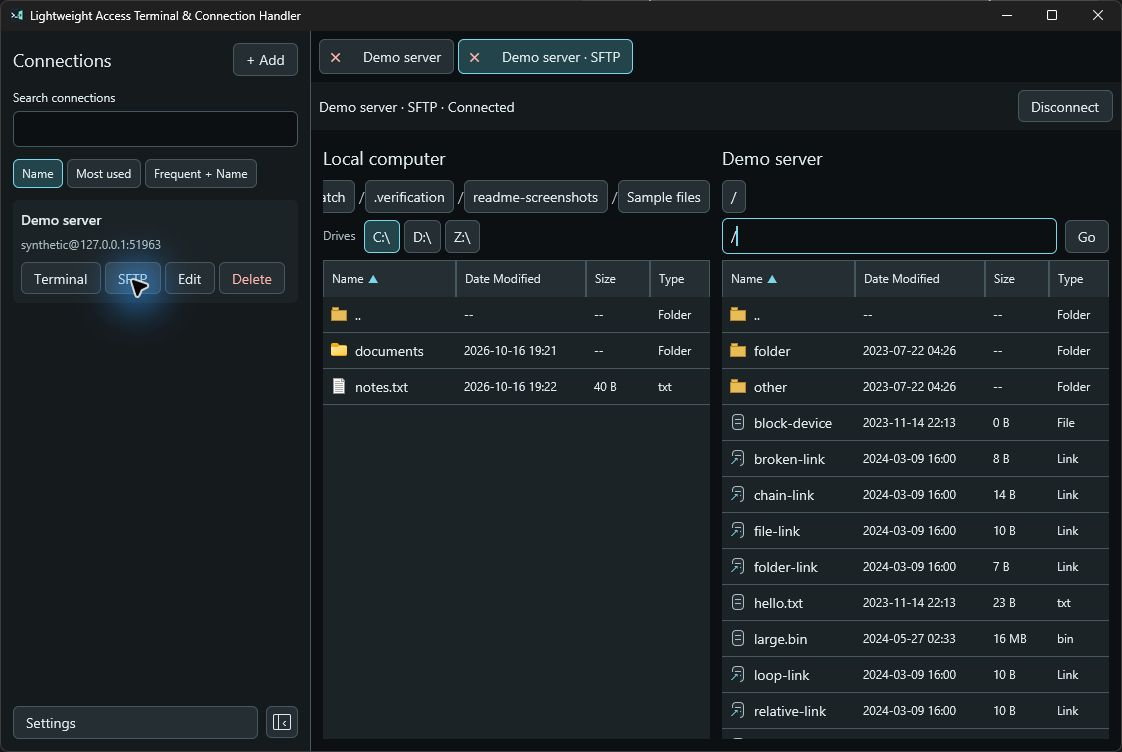
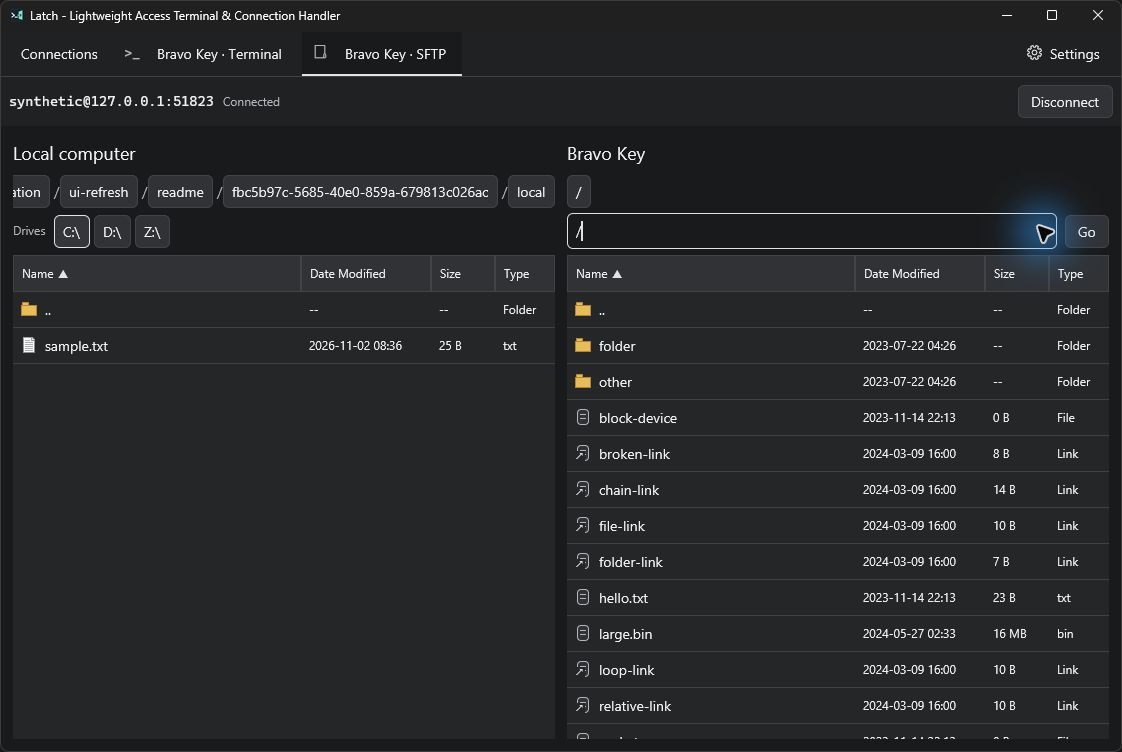
docs: refresh redesigned app screenshots

diff --git a/README.md b/README.md
@@ -17,6 +17,10 @@ That's it.
 
 ## Screenshots
 
+| Connections | Settings |
+| --- | --- |
+| ![Latch connection library grouped alphabetically](assets/screenshots/connections.jpg) | ![Latch Appearance settings with Citron app colors and a live terminal preview](assets/screenshots/settings.jpg) |
+
 | Terminal | SFTP |
 | --- | --- |
 | ![Latch connected to an SSH terminal](assets/screenshots/terminal.jpg) | ![Latch connected to an SFTP server with sample files](assets/screenshots/sftp.jpg) |
